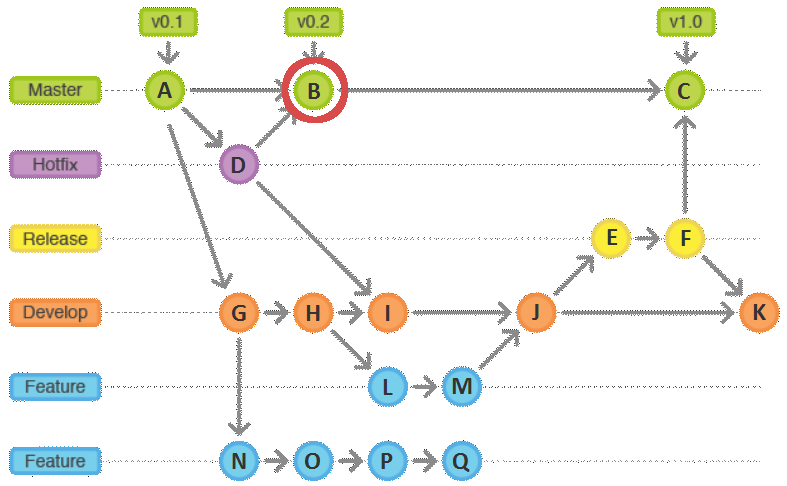
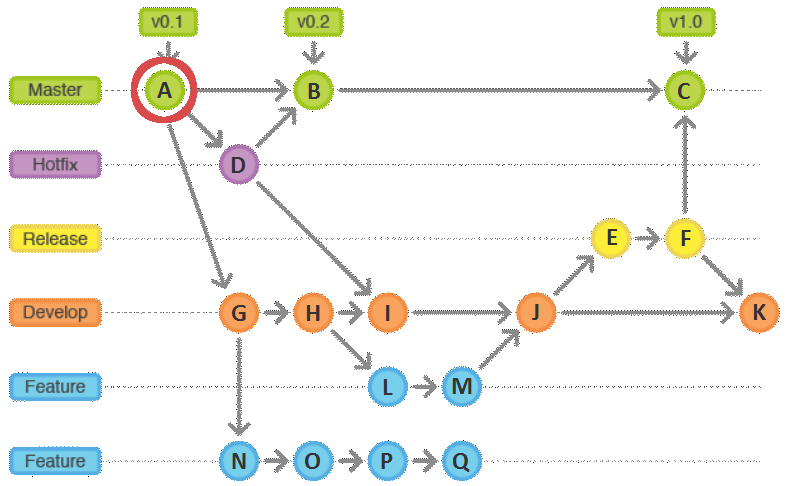
Correction exercice #1

Changed region(s): [[0.1525, 0.0926, 0.2745, 0.2778], [0.3659, 0.0926, 0.4574, 0.2778], [0.3355, 0.1543, 0.3659, 0.216]]

diff --git a/docs/diaporama/chapitre-12.md b/docs/diaporama/chapitre-12.md
@@ -65,7 +65,7 @@ Exemples
 
 
 <!-- .slide: data-background-image="images/logo-git.png" data-background-size="600px" class="slide" data-transition="slide-in fade-out" -->
-### `C^`
+### `D^`
 <div class="center">
 	<img src="images/exercice-0.png" />
 </div>
@@ -73,7 +73,7 @@ Exemples
 %%%
 
 <!-- .slide: data-background-image="images/logo-git.png" data-background-size="600px" class="slide" data-transition="fade" -->
-### `C^ = B`
+### `D^ = A`
 <div class="center">
 	<img src="images/exercice-1.png" />
 </div>
